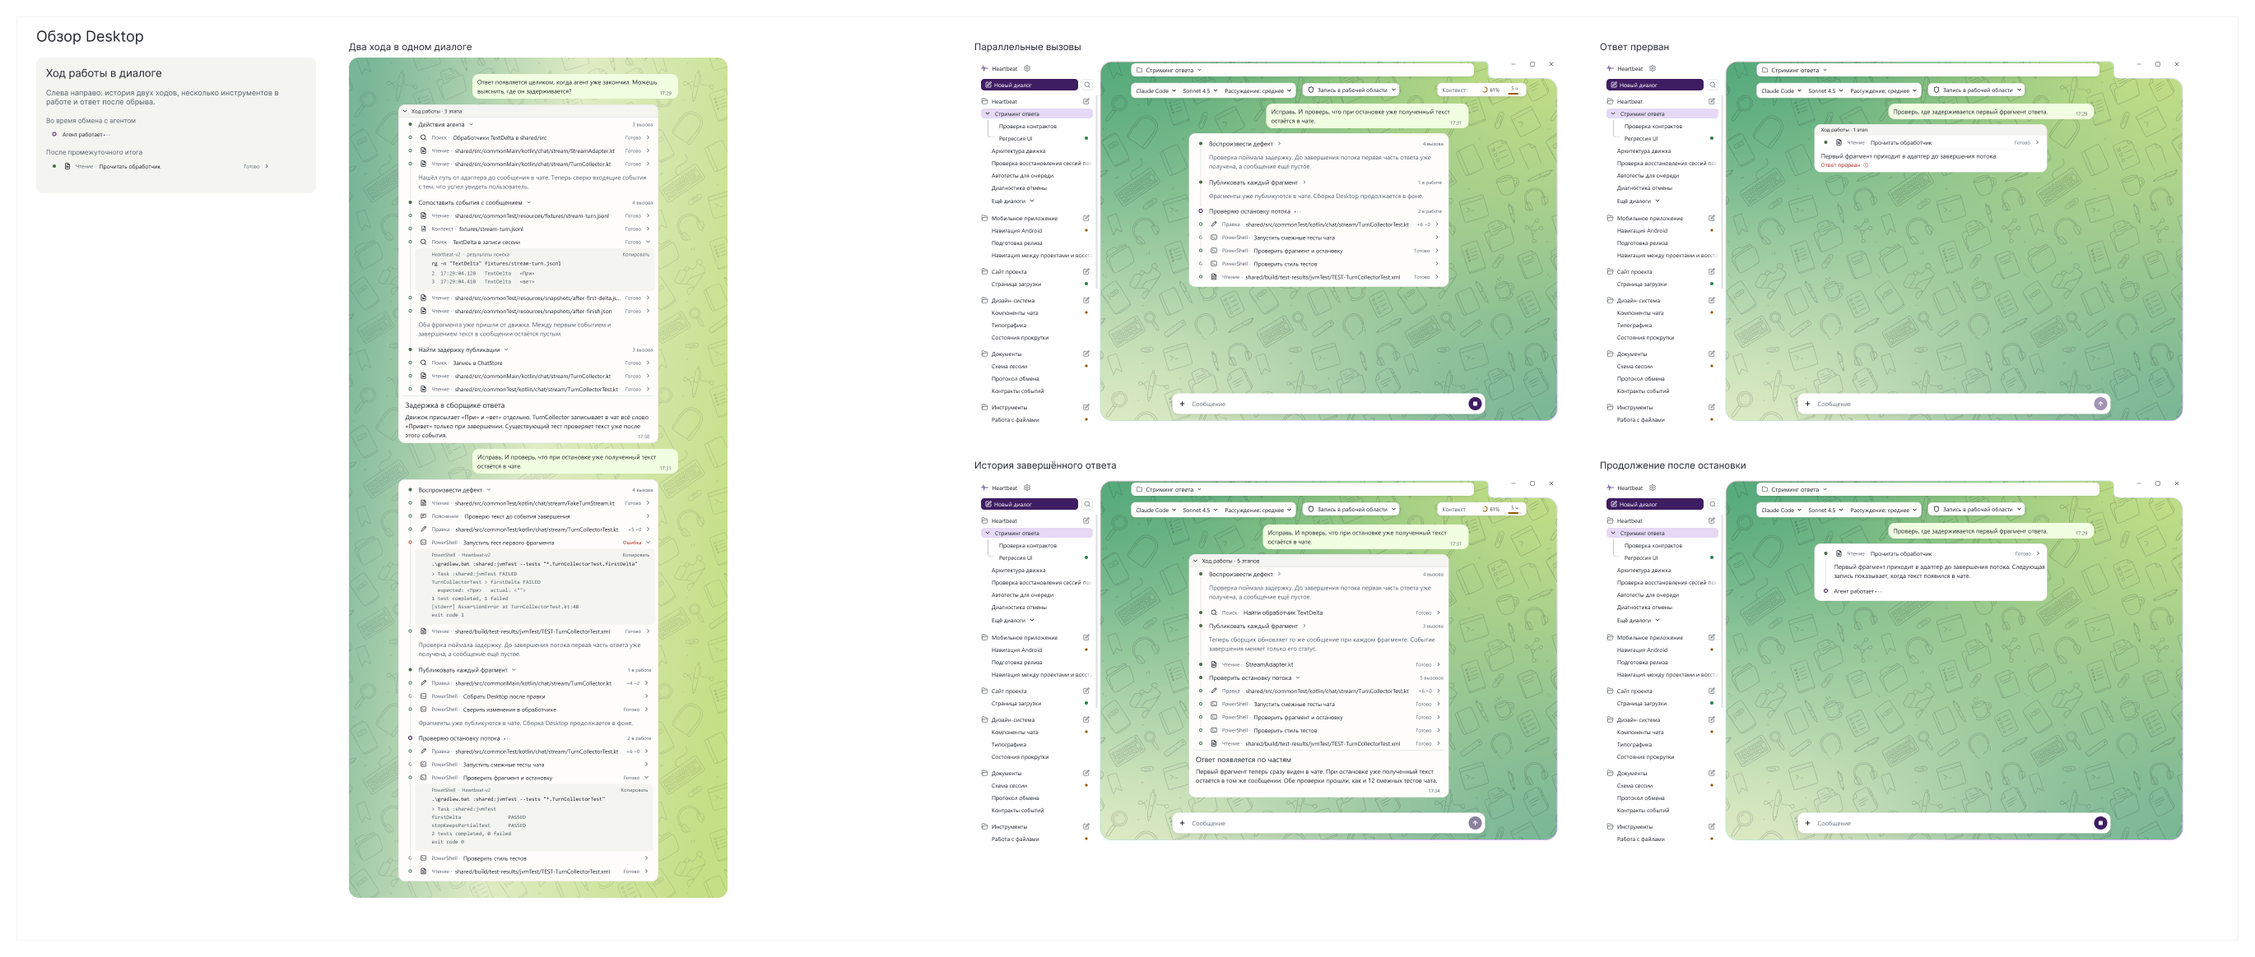
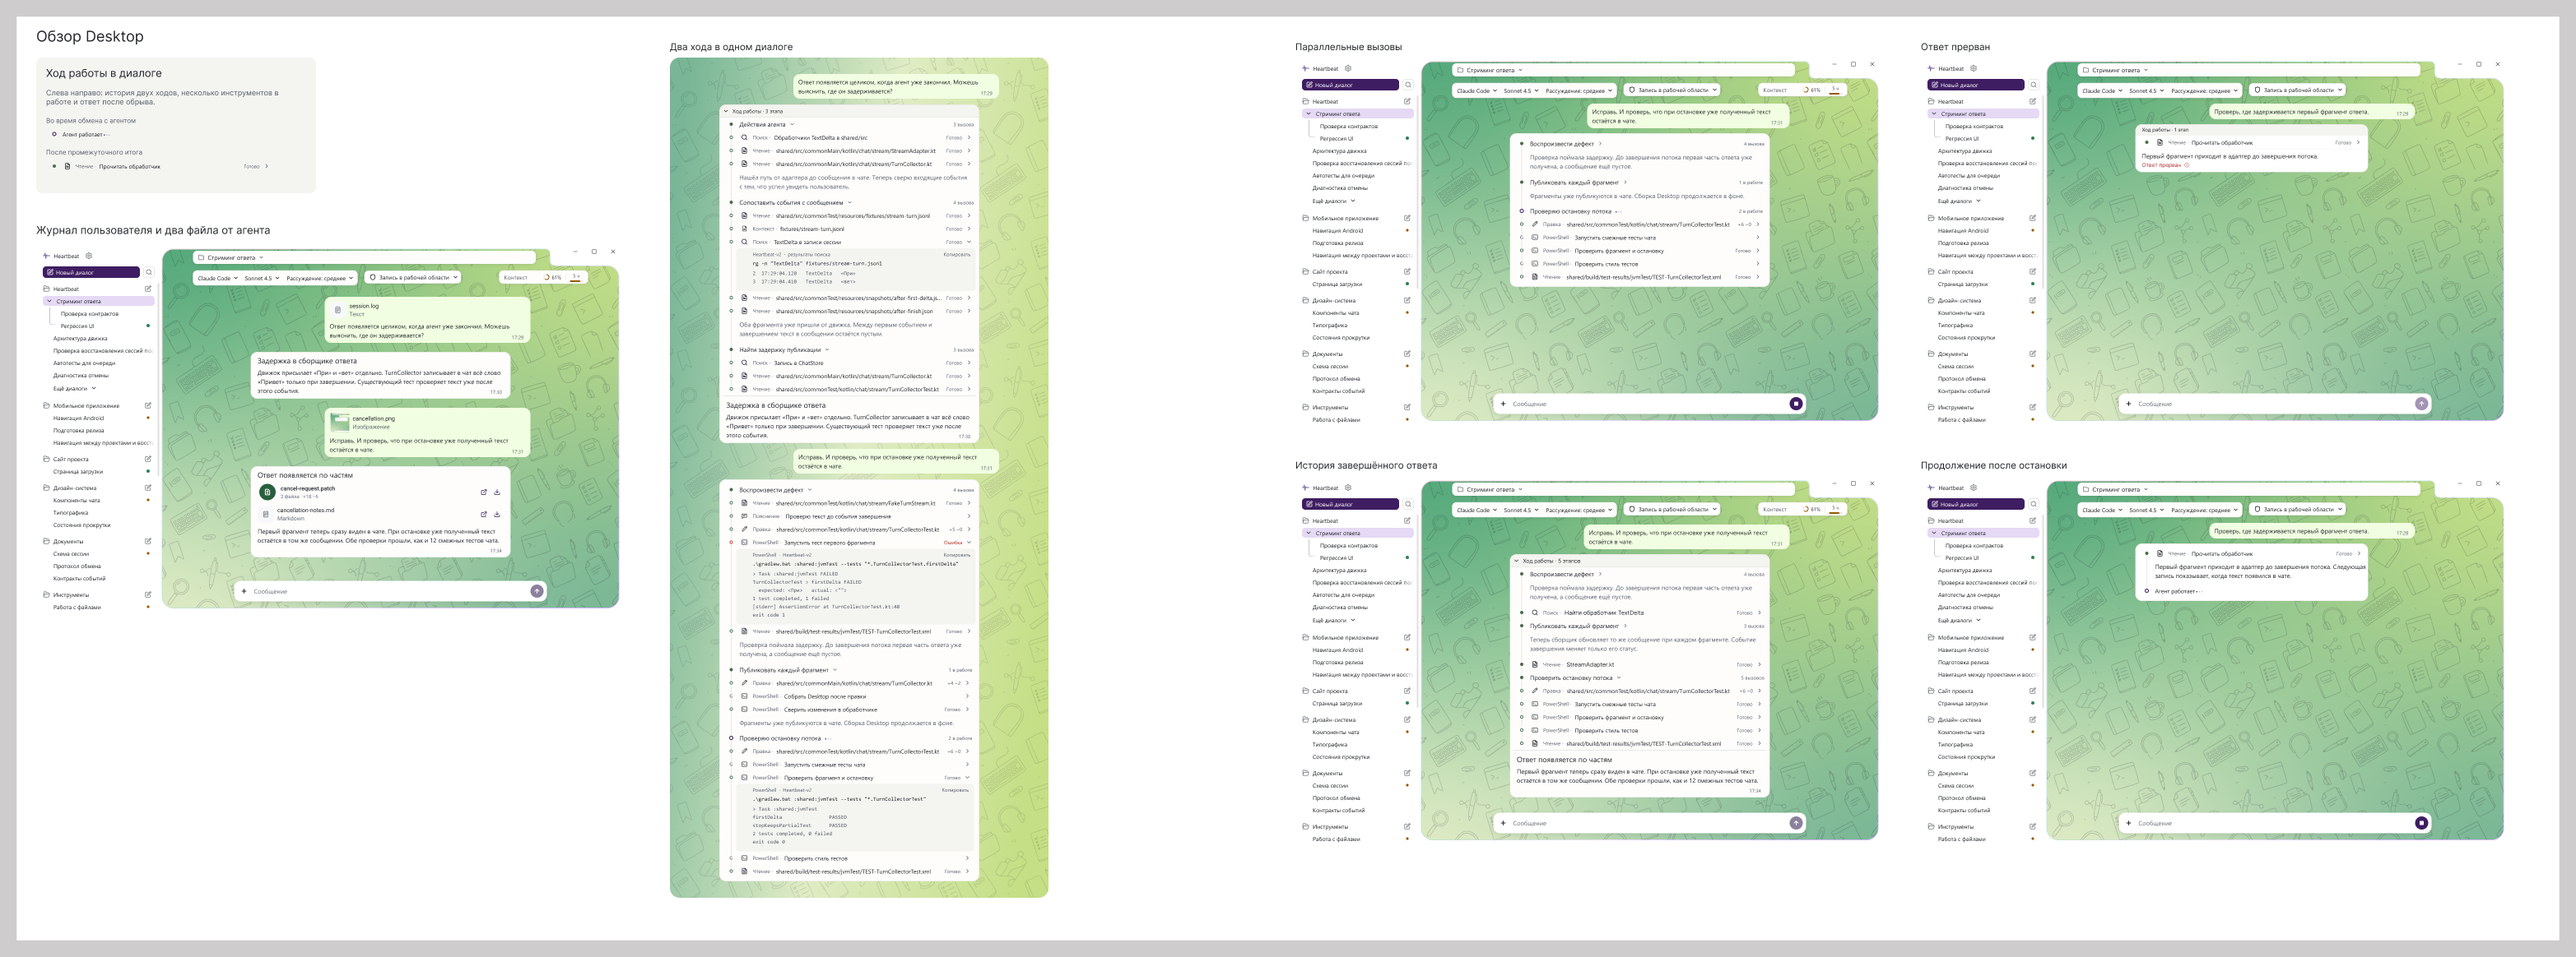
Show user attachments and agent files across all Desktop Aurora scenarios

diff --git a/specs/desktop-aurora-agent-workspace.md b/specs/desktop-aurora-agent-workspace.md
@@ -10,6 +10,26 @@
 
 После подтверждения доставки в переписке сразу появляются реплика пользователя и область ответа. На оси видны полое фиолетовое кольцо, подпись «Агент работает» и три точки. В поле ввода доступна остановка. Пока агент не прислал событий, у ответа нет истории вызовов и времени завершения. [Ожидание первого события](https://www.figma.com/design/ivLmgulIBIkMzOw8sgvKxj/Aurora-DS?node-id=467-159620) · [Черновики с вложениями](https://www.figma.com/design/ivLmgulIBIkMzOw8sgvKxj/Aurora-DS?node-id=477-177480)
 
+## Файлы пользователя и агента
+
+Пользователь прикрепляет файлы к черновику. После отправки они видны в его реплике над подписью. Строка показывает имя и тип файла, для изображения с доступным превью используется миниатюра. При ошибке доставки повтор сохраняет тот же набор вложений.
+
+Файл, переданный агентом, появляется внутри его ответа. У патча видны имя и сводка изменений, у документа — имя и формат. Справа расположены действия просмотра и скачивания. Просмотр патча открывает изменения для чтения. Путь, который инструмент прочитал или нашёл, остаётся в результатах инструмента. Файл становится вложением при получении события с самим артефактом.
+
+При остановке или ограничении запросов уже доставленные файлы остаются у исходного ответа. Продолжение потока и повторная доставка того же события сохраняют по одному экземпляру каждого файла. [Правила вложений](../plans/aurora-attachments.md)
+
+![Пользователь приложил журнал и снимок экрана. В ответе агента доступны патч и Markdown с просмотром и скачиванием.](../previews/desktop-agent-turns/files-overview.png)
+
+| Секция | Что показано | Иллюстрация |
+| --- | --- | --- |
+| [Обзор Desktop](https://www.figma.com/design/ivLmgulIBIkMzOw8sgvKxj/Aurora-DS?node-id=502-132409) | Журнал и снимок экрана пользователя, патч и Markdown от агента | [Снимок](../previews/desktop-agent-turns/files-overview.png) |
+| [От запроса до итога](https://www.figma.com/design/ivLmgulIBIkMzOw8sgvKxj/Aurora-DS?node-id=502-133311) | Агент ранее приложил заметки. Пользователь передал журнал, начался поиск | [Снимок](../previews/desktop-agent-turns/files-active.png) |
+| [История ответа](https://www.figma.com/design/ivLmgulIBIkMzOw8sgvKxj/Aurora-DS?node-id=502-134239) | Снимок экрана в запросе и готовый патч под раскрытой историей | [Снимок](../previews/desktop-agent-turns/files-history.png) |
+| [Ошибка доставки и повтор](https://www.figma.com/design/ivLmgulIBIkMzOw8sgvKxj/Aurora-DS?node-id=502-135316) | Журнал остаётся у ошибочной реплики. Ранее полученный файл агента виден выше | [Снимок](../previews/desktop-agent-turns/files-retry.png) |
+| [Остановка и продолжение](https://www.figma.com/design/ivLmgulIBIkMzOw8sgvKxj/Aurora-DS?node-id=502-136219) | Полученный Markdown остаётся в остановленном ответе | [Снимок](../previews/desktop-agent-turns/files-stopped.png) |
+| [Связь и лимит запросов](https://www.figma.com/design/ivLmgulIBIkMzOw8sgvKxj/Aurora-DS?node-id=502-137151) | Уже полученный патч виден в частичном ответе во время ожидания HTTP 429 | [Снимок](../previews/desktop-agent-turns/files-rate-limit.png) |
+| [Раскрытие инструментов](https://www.figma.com/design/ivLmgulIBIkMzOw8sgvKxj/Aurora-DS?node-id=502-138084) | Результат поиска раскрыт в том же диалоге с входящим и исходящим файлами | [Снимок](../previews/desktop-agent-turns/files-tool.png) |
+
 ## Текущий этап
 
 На месте подписи ожидания появляется публичная цель агента, например «Проверяю остановку потока». Кольцо пульсирует во время обмена с LLM, три точки анимируются сразу после подписи. При уменьшенном движении кольцо и точки статичны. Диктор сообщает о начале ожидания один раз. Текущий этап всегда открыт. Его заголовок не имеет шеврона, а строка «Ход работы» появляется после окончания ответа.

diff --git a/plans/aurora-chat-longread.md b/plans/aurora-chat-longread.md
@@ -257,11 +257,13 @@
 
 ### Обзор рабочей области Desktop
 
+В каждой секции предусмотрен вариант Desktop с файлами пользователя и агента. В полученном ответе патч и Markdown доступны рядом с текстом. При обрыве и остановке сохраняются переданные файлы, при ошибке отправки — вложения исходной реплики. [Семь сценариев и кадры Figma](../specs/desktop-aurora-agent-workspace.md#файлы-пользователя-и-агента).
+
 Публичный итог, полученный без нового вызова инструмента, продолжает текст предыдущего этапа. В примере после чтения видны два абзаца под одной строкой инструмента. В примере после группы три абзаца остаются у свёрнутого этапа с двумя фоновыми вызовами. Оба примера сохраняют порядок текста и один маркер ожидания следующего хода. [Снимок после чтения](../previews/desktop-agent-turns/summary-after-single.png) · [Два последовательных итога](../previews/desktop-agent-turns/consecutive-summaries.png).
 
 В кадре раскрытой истории второй ответ содержит три группы и два самостоятельных этапа с одним инструментом. После воспроизведения дефекта идёт поиск обработчика TextDelta, после публикации фрагментов — чтение StreamAdapter.kt. Каждый вызов открывается на месте. Счётчик в обычной и выделенной шапке показывает «5 этапов». [Раскрытая история второго ответа](https://www.figma.com/design/ivLmgulIBIkMzOw8sgvKxj/Aurora-DS?node-id=466-151317).
 
-Пять кадров в обзоре показывают ход агента в контексте диалога. Под экраном с параллельными вызовами расположена история завершённого ответа, под прерыванием — продолжение. Пояснения рядом с экранами используют те же компоненты Aurora, что и прототип. [Обзор](https://www.figma.com/design/ivLmgulIBIkMzOw8sgvKxj/Aurora-DS?node-id=496-128871) · [Снимок](../previews/desktop-agent-turns/desktop-overview.png).
+Шесть кадров в обзоре показывают ход агента в контексте диалога. Под экраном с параллельными вызовами расположена история завершённого ответа, под прерыванием — продолжение. Пояснения рядом с экранами используют те же компоненты Aurora, что и прототип. [Обзор](https://www.figma.com/design/ivLmgulIBIkMzOw8sgvKxj/Aurora-DS?node-id=496-128871) · [Снимок](../previews/desktop-agent-turns/desktop-overview.png).
 
 | Сценарий | Где посмотреть |
 | --- | --- |

diff --git a/CHECKPOINT.md b/CHECKPOINT.md
@@ -4,6 +4,8 @@
 
 ## С чего продолжить
 
+В каждой из семи секций под пояснением слева есть полноразмерный Desktop-кадр с вложениями обеих сторон. [Журнал пользователя и два файла агента](https://www.figma.com/design/ivLmgulIBIkMzOw8sgvKxj/Aurora-DS?node-id=502-132409) · [Все семь вариантов и снимки](specs/desktop-aurora-agent-workspace.md#файлы-пользователя-и-агента).
+
 Отдельная секция [«Раскрытие инструментов»](https://www.figma.com/design/ivLmgulIBIkMzOw8sgvKxj/Aurora-DS?node-id=502-132403) расположена справа внизу под сценариями связи. [Расположение секций](previews/desktop-agent-turns/workspace-sections.png).
 
 Правила реализации и сценарии приёмки собраны в [иллюстрированной спецификации рабочей области агента](specs/desktop-aurora-agent-workspace.md).
